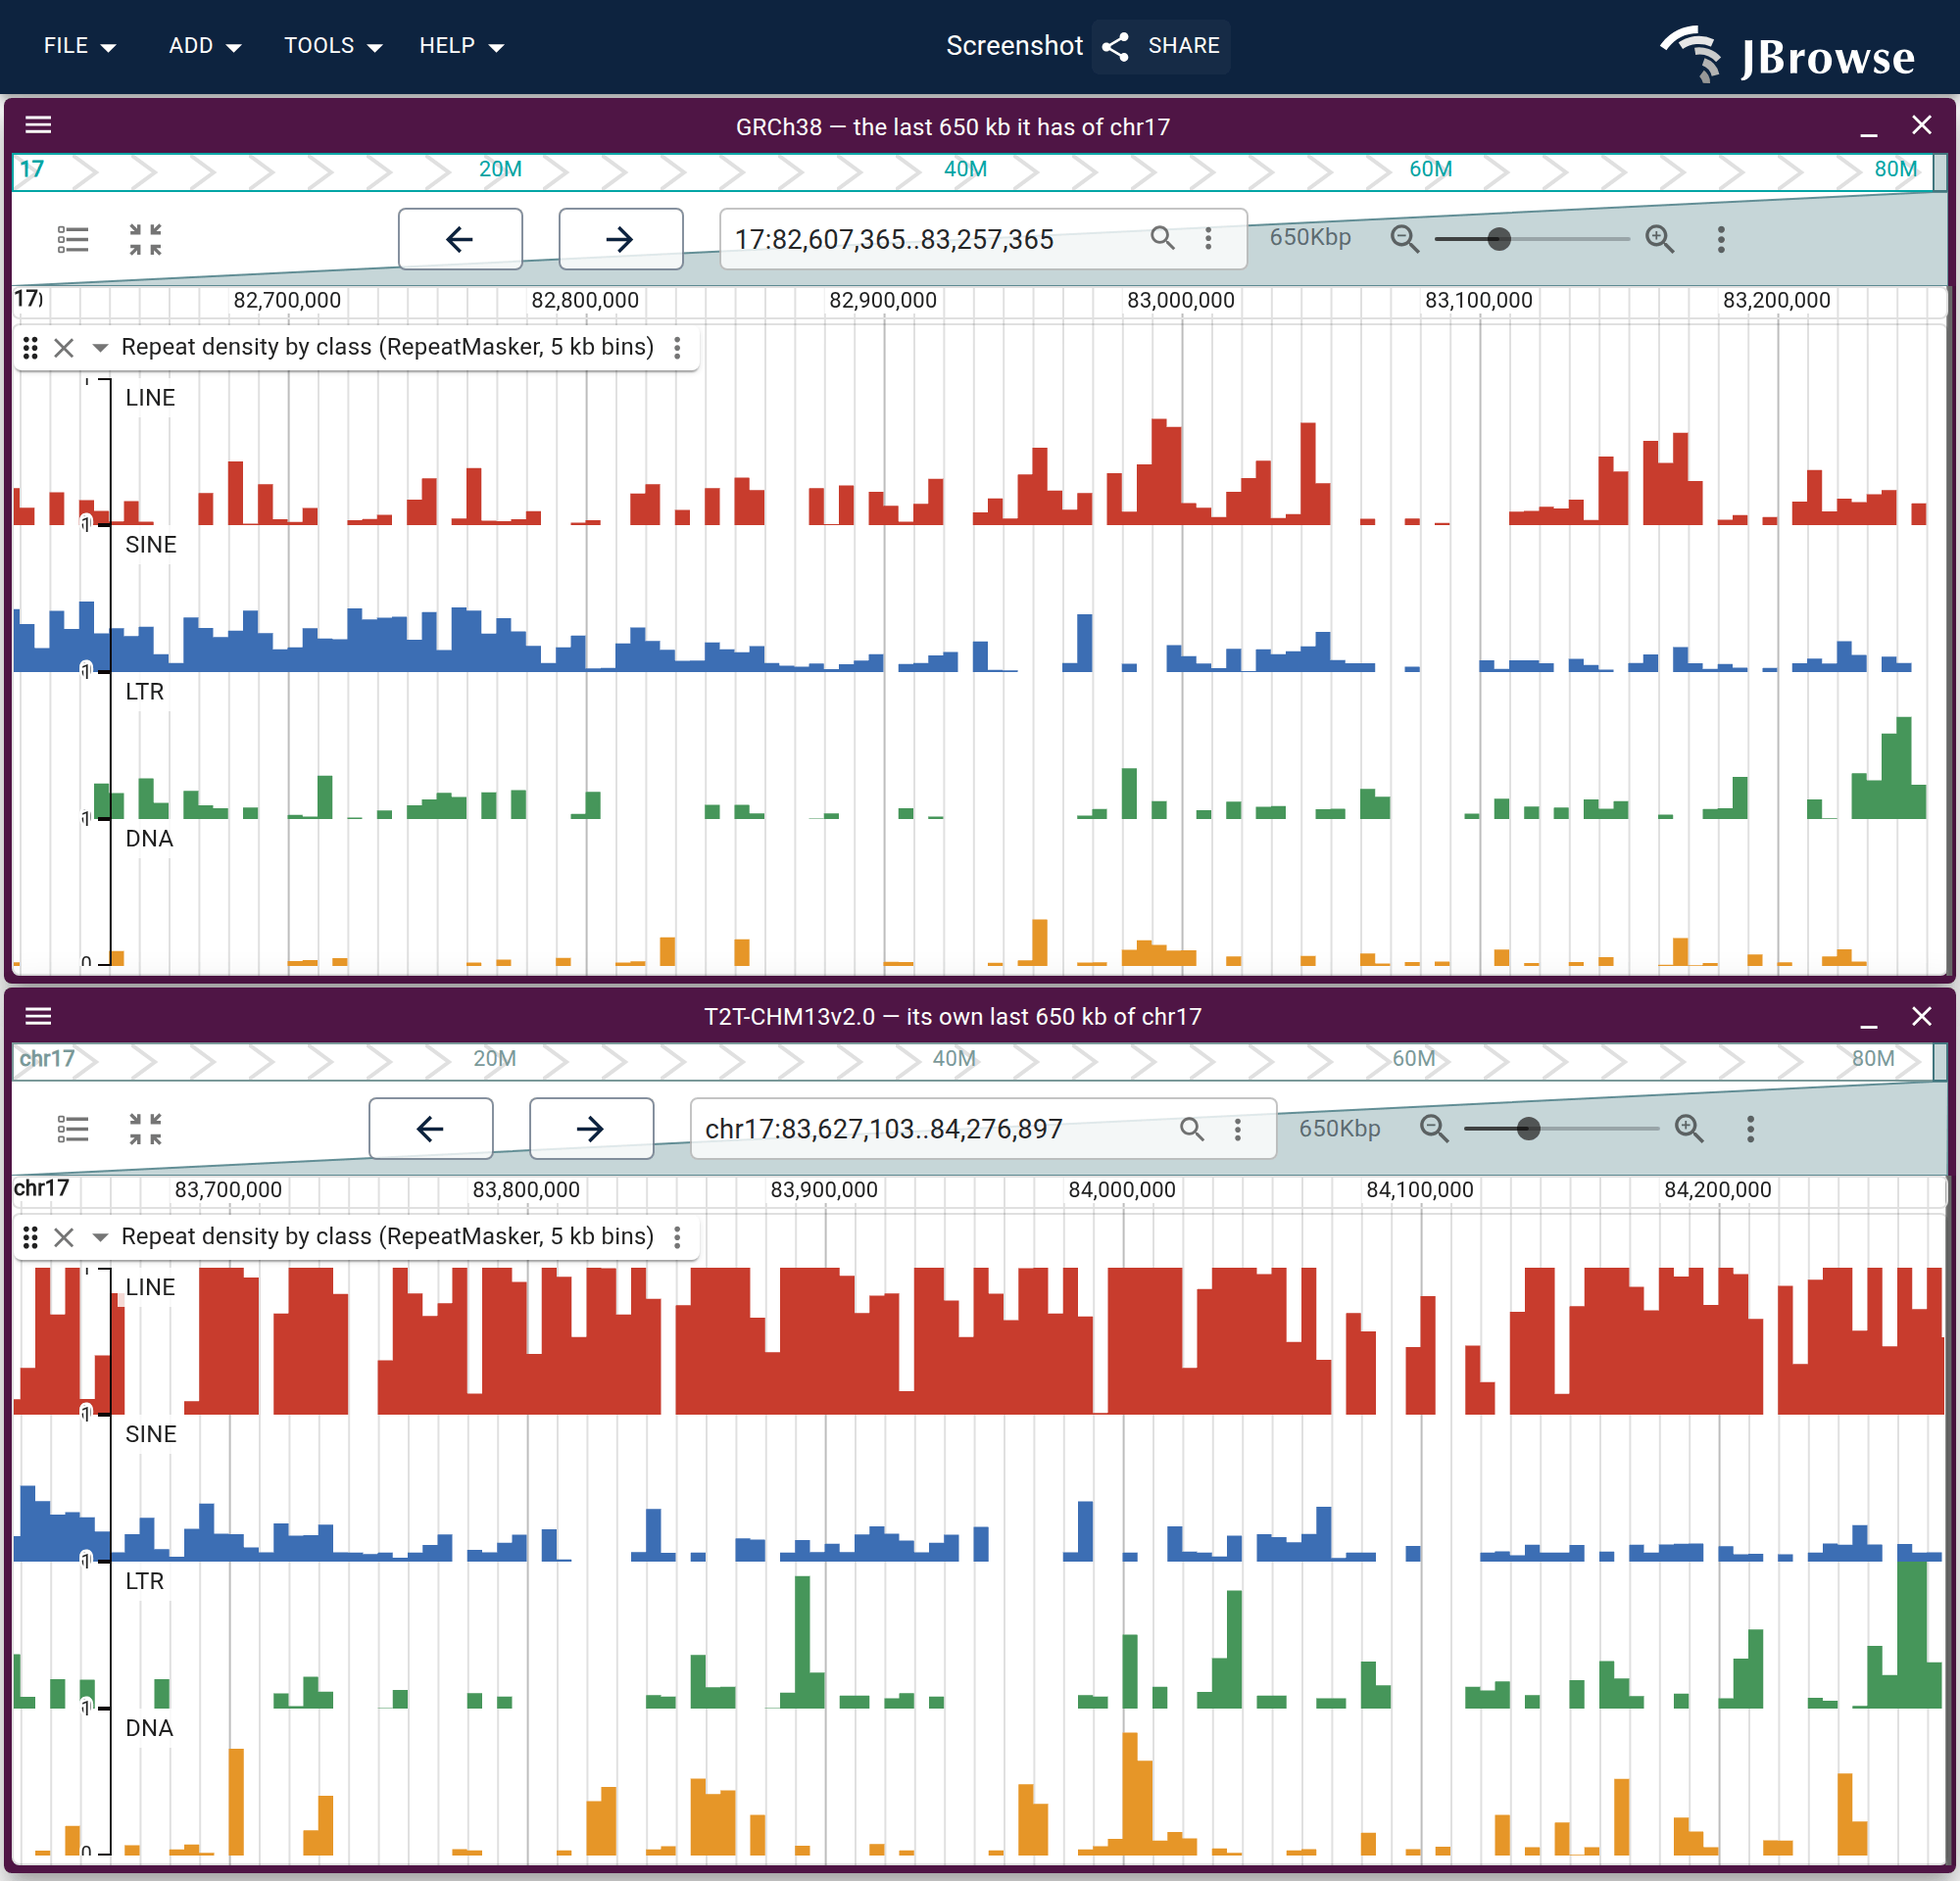
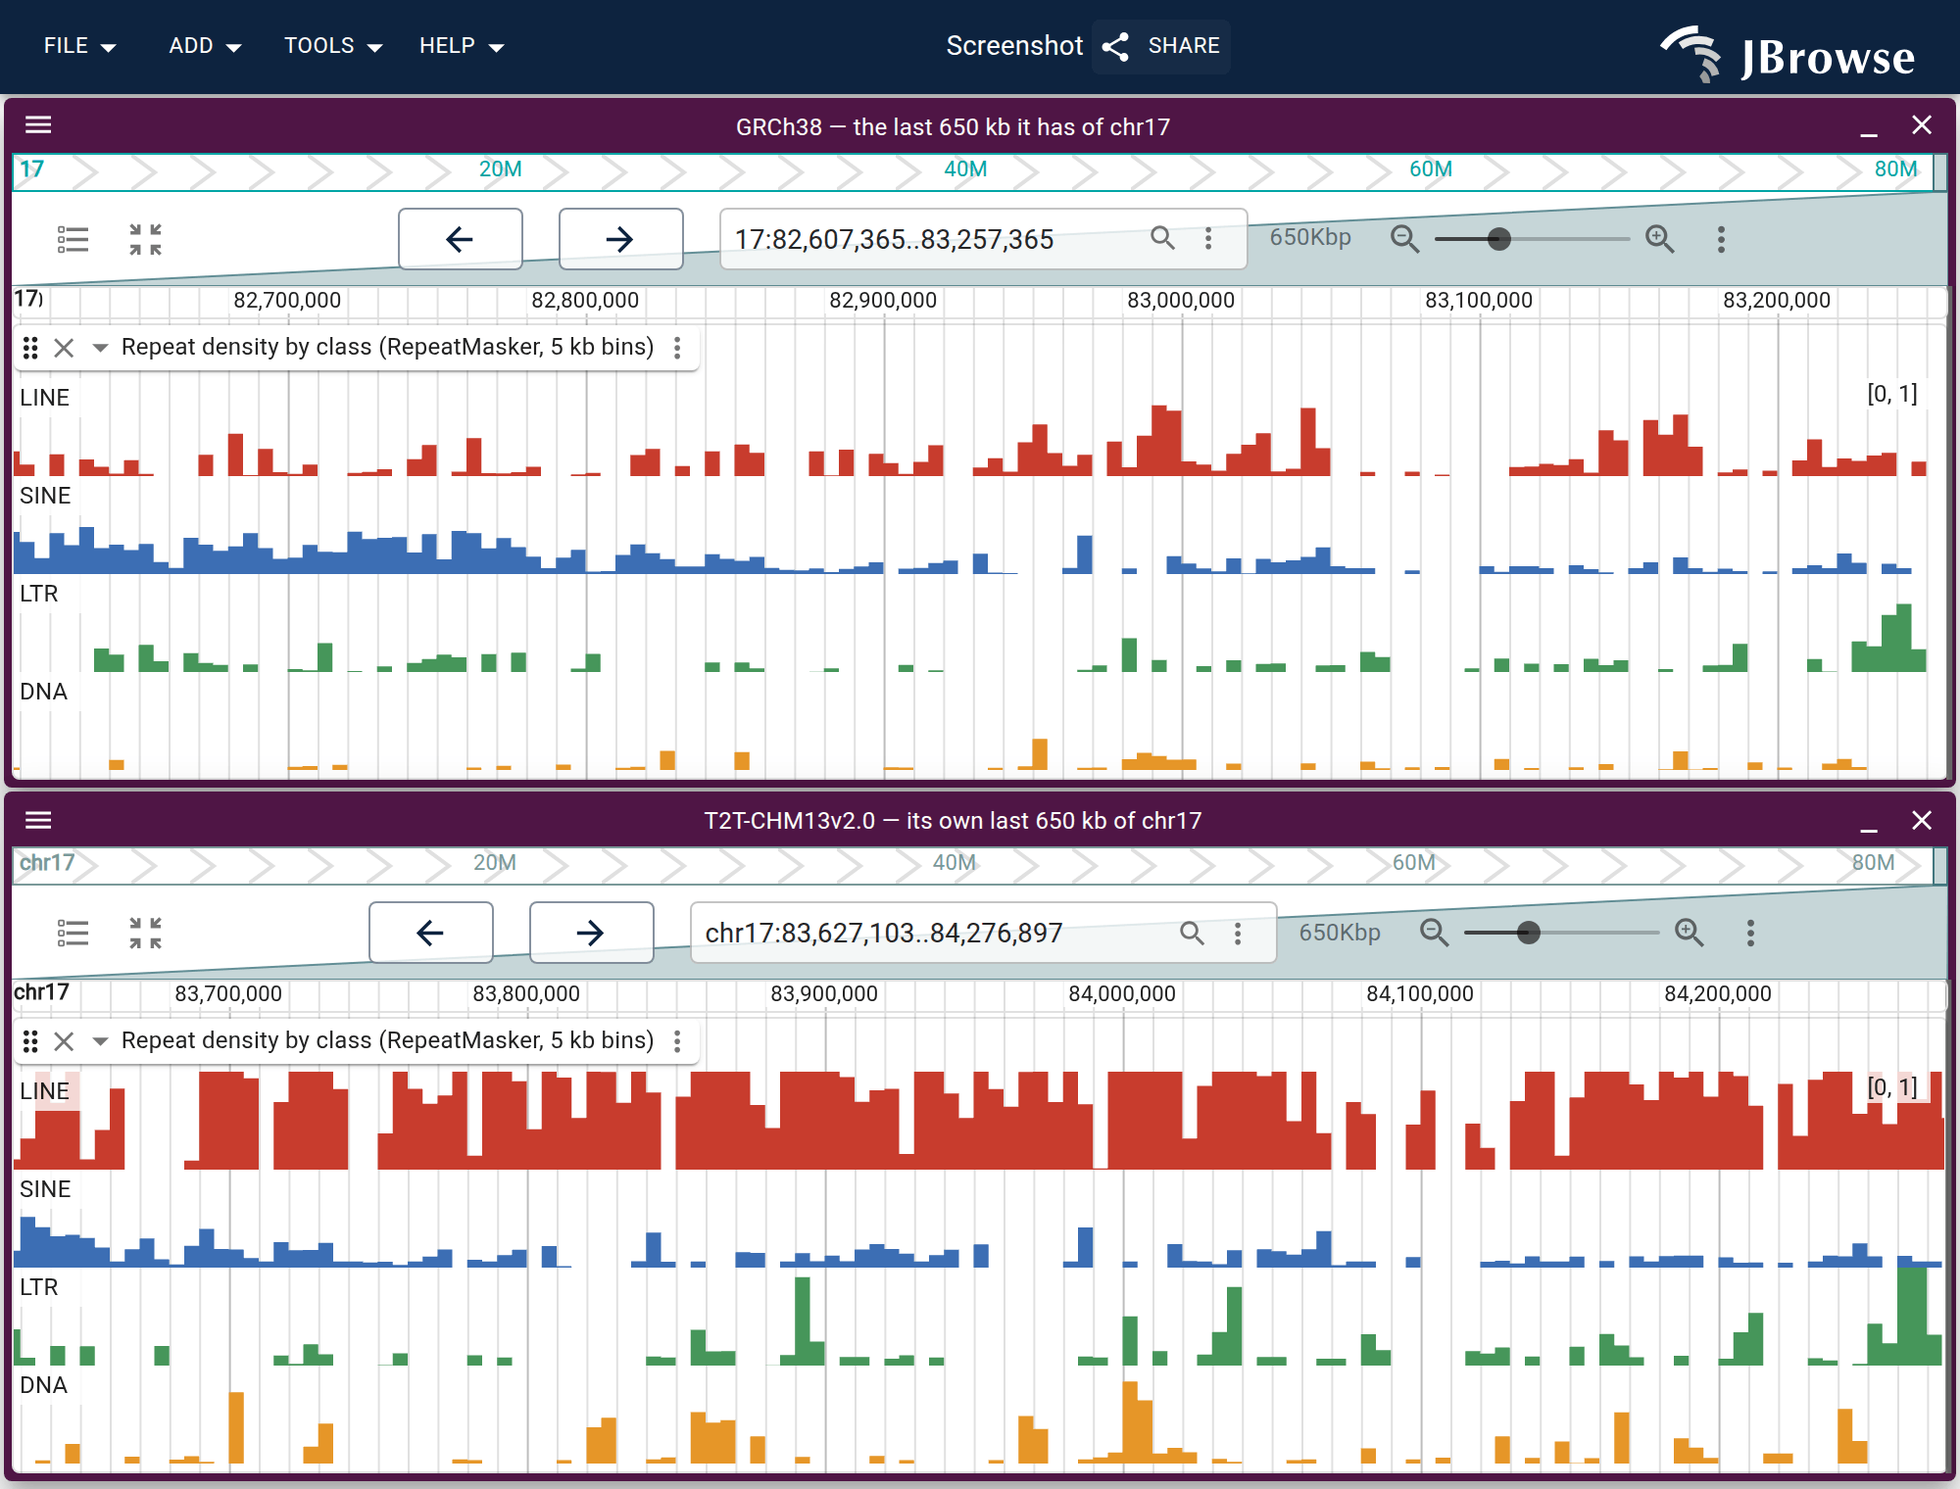
docs(pangenome): shrink the repeat-class figure, and say why a synteny band is wrong for it
Two review asks, one done and one tried and rejected.

The `MultiLinearWiggleDisplay` goes 300 -> 200 on both panes, viewport 960 ->
760. Four class rows still read as four rows, and the LINE-vs-SINE contrast the
figure exists for is unaffected.

The synteny view was built and rendered twice before being reverted. A band
needs the two panes to be counterparts and these deliberately are not: each pane
is its own assembly's last 650 kb, which is the only framing that keeps them the
same width in bp and therefore comparable row against row -- a lifted-over
interval cannot exist for sequence one assembly does not have, which is the
subject. Hanging the UCSC hg38-to-hs1 liftOver chain between them paints a single
flat block across the whole band, because a liftOver chain is one
chromosome-scale feature and its base ribbon is one trapezoid, so the band ends
up asserting the two windows correspond end to end. `minAlignmentLength: 20000`
does not change it. It also costs both `displayName` titles, which a synteny
view's sub-panels do not carry, and those titles are what say the panes are not
the same interval. The finding is in the spec so it is not re-derived.

Claude-Session: https://claude.ai/code/session_013ibG4ptrGdTkgGS2zvJpYV

diff --git a/website/scripts/specs/graph.ts b/website/scripts/specs/graph.ts
@@ -923,7 +923,10 @@ function repeatDensityDisplay(asm: string) {
     // rescale each row to its own maximum and erase the entire result.
     minScore: 0,
     maxScore: 1,
-    height: 300,
+    // 200, not 300 (review: more compact). Four class rows still read as four
+    // rows at 50px each, and the 100px saved on each pane is what lets the
+    // synteny band between them be tall enough to see a ribbon in.
+    height: 200,
   }
 }
 
@@ -3175,6 +3178,19 @@ export const graphSpecs: ScreenshotSpec[] = [
   // the two panes the same width in bp, which is what lets the rows be read
   // against each other at all — the objection that retired the strip on the
   // figure above was two panes at different bp/px.
+  //
+  // A SYNTENY VIEW WAS TRIED HERE AND IS WRONG FOR THIS COMPARISON (review
+  // asked for one; rendered it twice before concluding). The band needs the two
+  // panes to be counterparts and these deliberately are not — each is its own
+  // assembly's last 650 kb, which is the only framing that keeps them the same
+  // width in bp. Hung the UCSC hg38-to-hs1 liftOver chain between them as a
+  // session track and what it paints is a single flat block across the whole
+  // band, because a liftOver chain is one chromosome-scale feature and its base
+  // ribbon is one trapezoid: the band ends up asserting that these two windows
+  // correspond end to end, which is the opposite of what the figure is for.
+  // Filtering to blocks over 20 kb does not change it. It also costs the two
+  // `displayName` titles, which a synteny view's sub-panels do not carry, and
+  // those titles are what say the panes are not the same interval.
   {
     mode: 'url',
     name: 'pangenome/hprc_repeat_classes',
@@ -3201,9 +3217,9 @@ export const graphSpecs: ScreenshotSpec[] = [
     readyTimeout: 120000,
     settleMs: 15000,
     viewportWidth: 1000,
-    // 6 rows x 2 panes at 300px a stack, their view headers and rulers, and one
-    // app bar. The generator's below-the-fold check settled this: 800 cut 156.
-    viewportHeight: 960,
+    // two 200px stacks, their view headers and rulers, and one app bar. Was 960
+    // at the old 300px display height.
+    viewportHeight: 760,
     hideTooltip: true,
   },
   // pangenome/hprc_allele_inventory was here and is RETIRED (review: "I am
